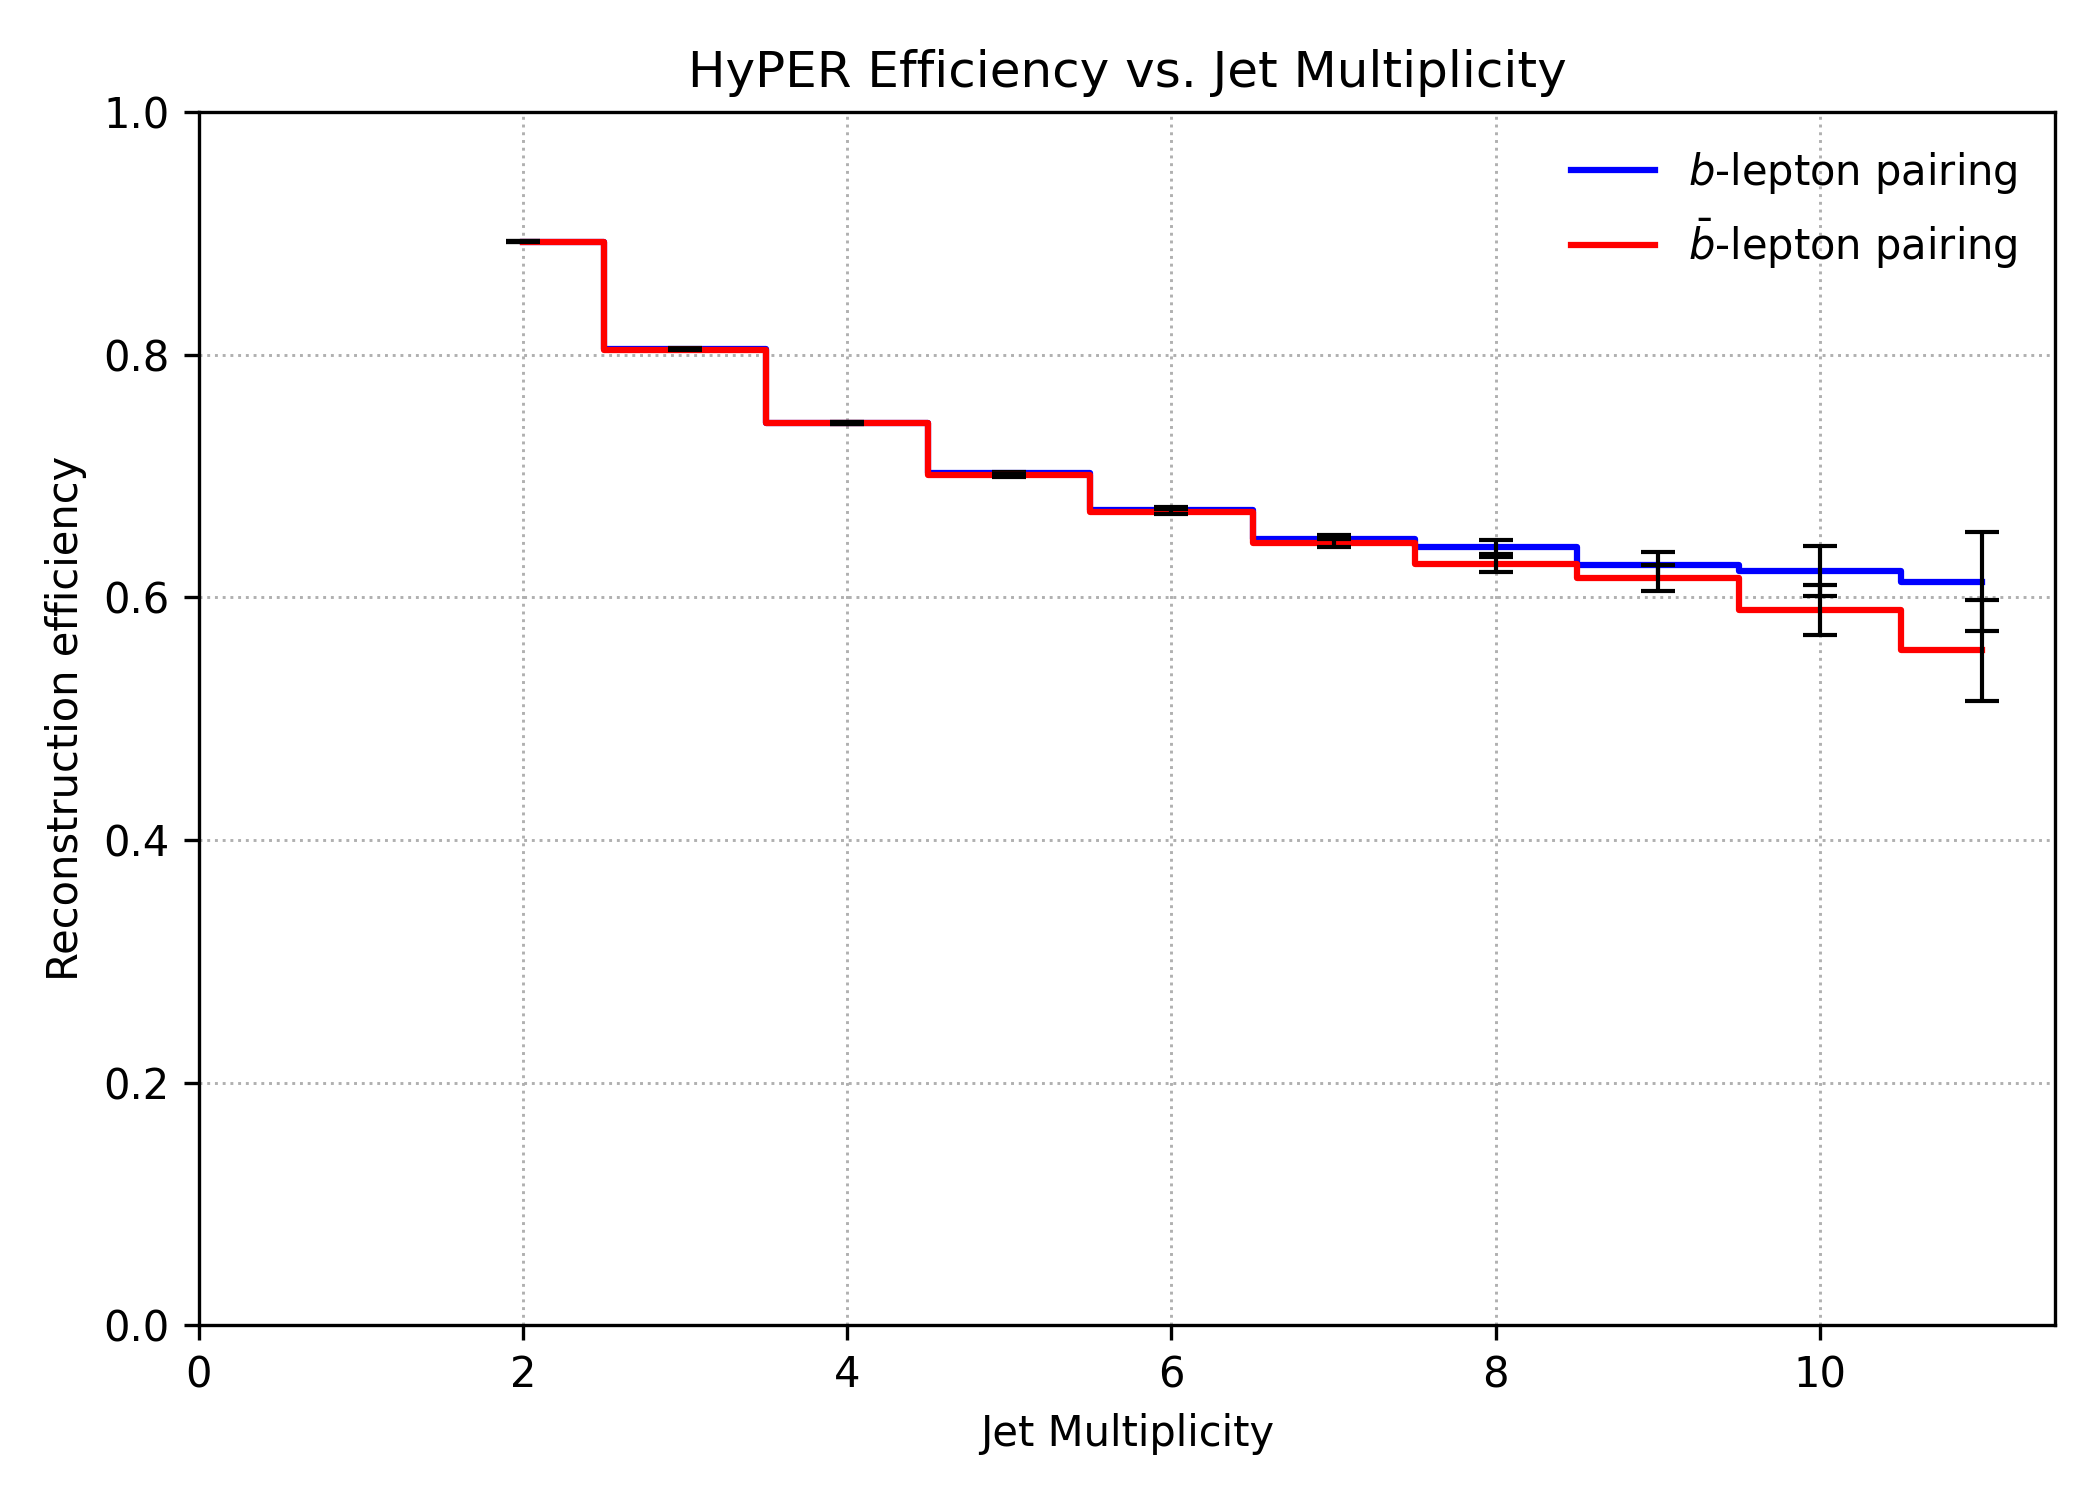
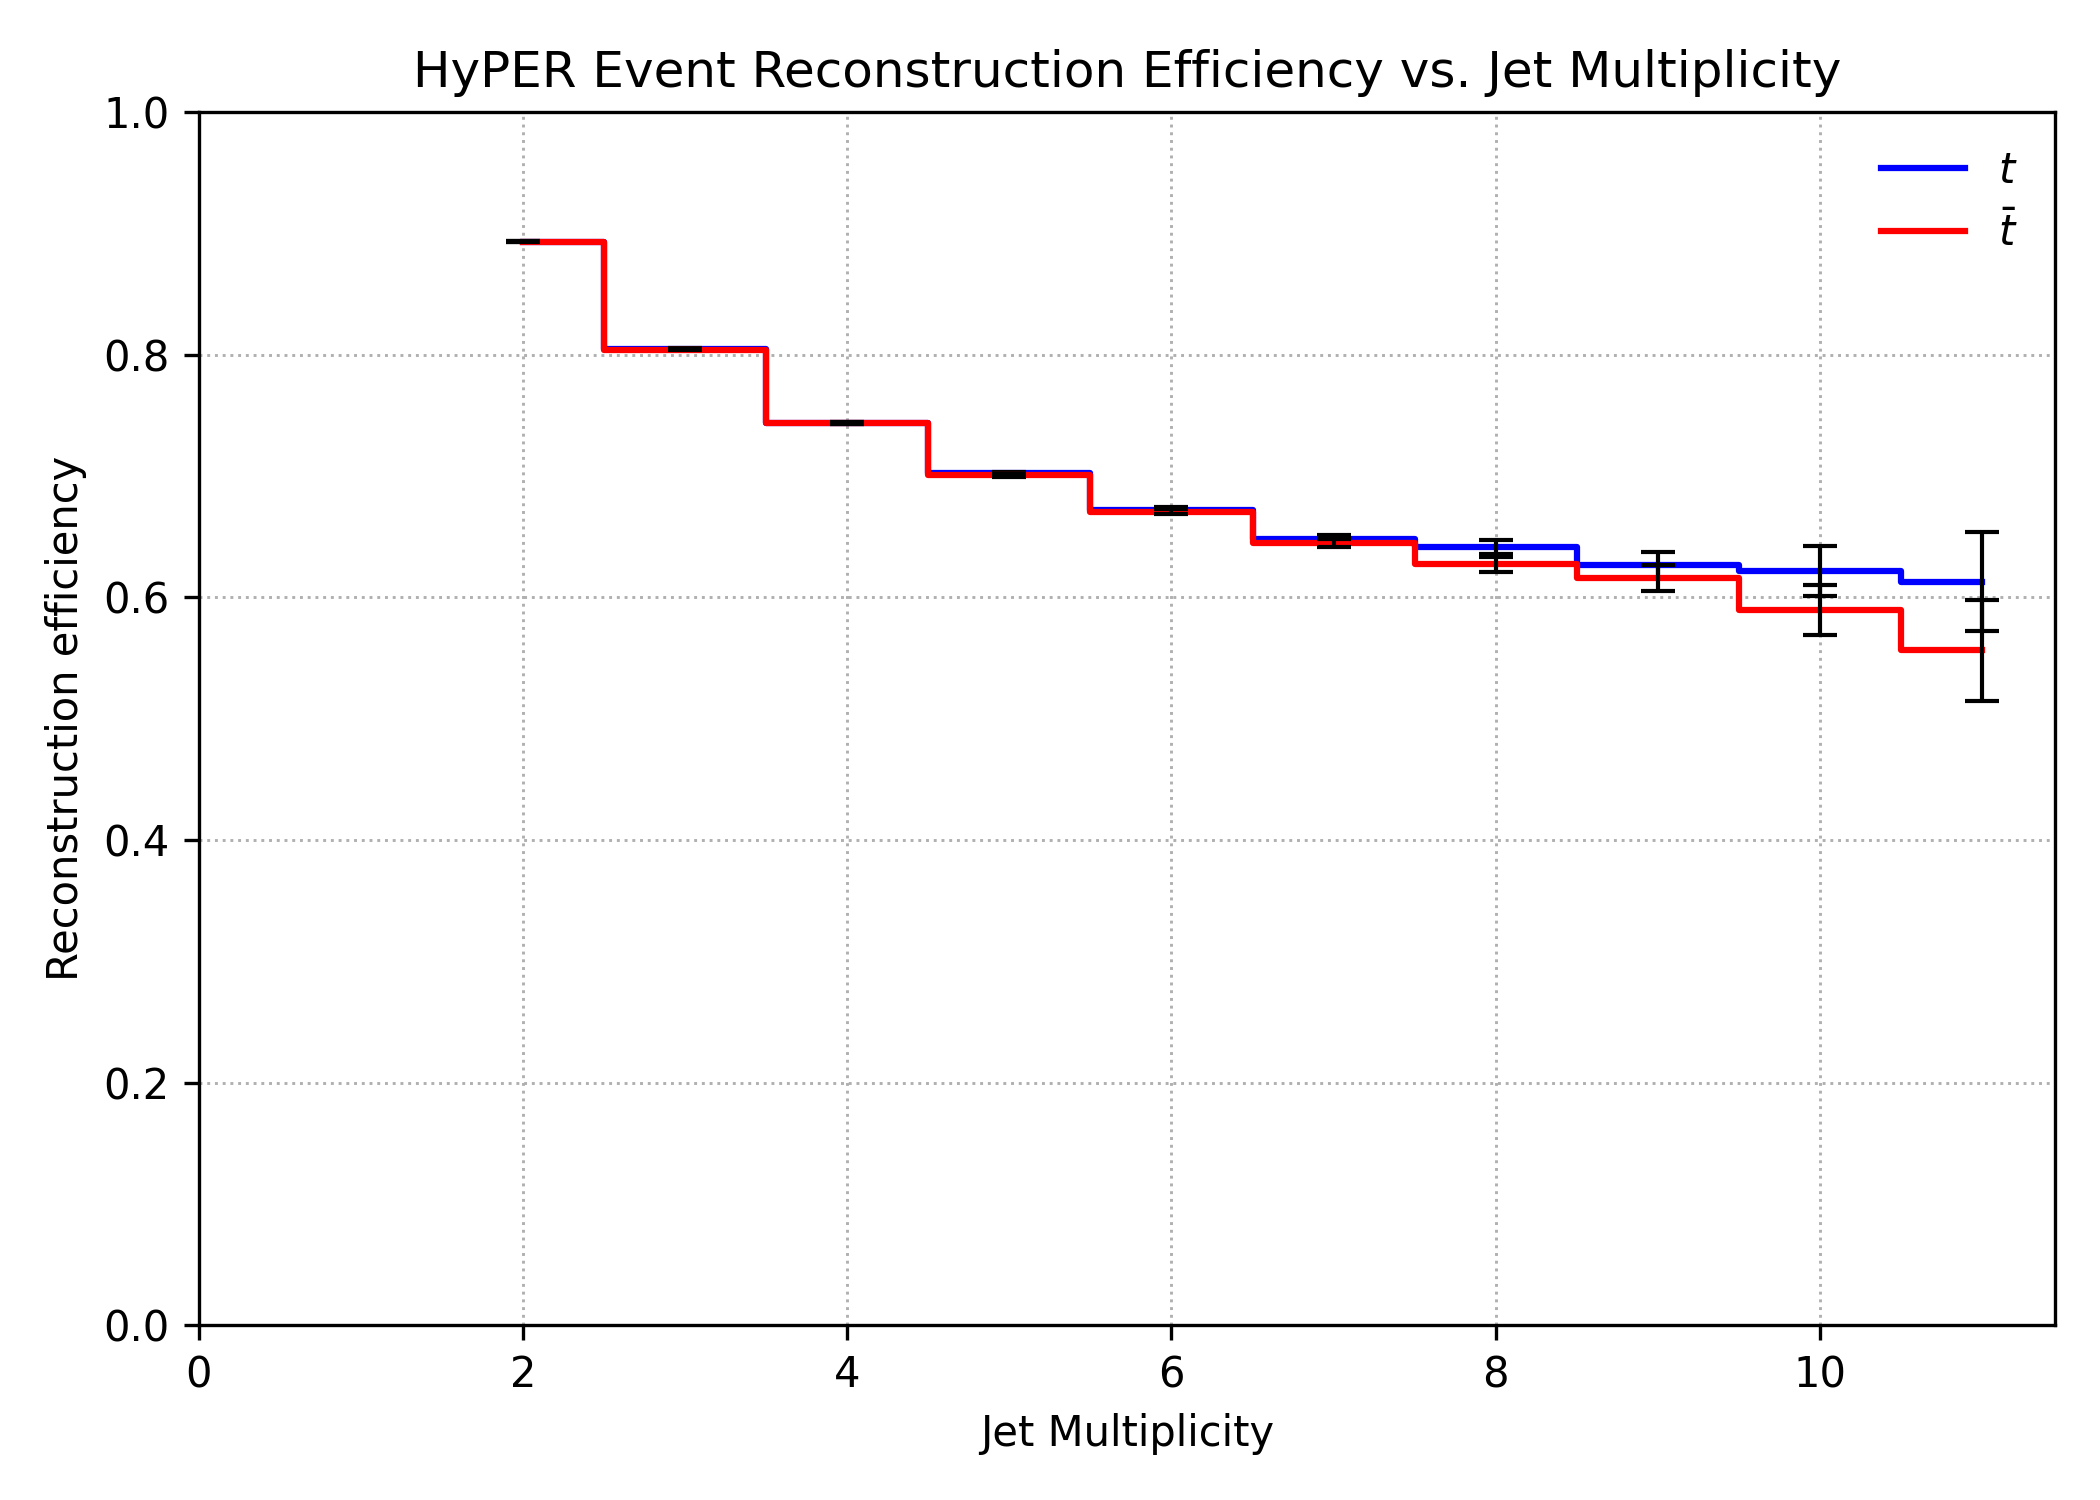
2.2.8 - Corrected MISMS Function & Reconstruction Efficiency Graphs

diff --git a/read_n_plot.py b/read_n_plot.py
@@ -27,11 +27,11 @@ def read_efficiency_block(filename, header):
 
 
 nj_lpb, eff_lpb, err_lpb = read_efficiency_block(
-    "efficiency_v_jets.py", "lpb"
+    "efficiency_v_jets2.py", "lpb"
 )
 
 nj_lmbb, eff_lmbb, err_lmbb = read_efficiency_block(
-    "efficiency_v_jets.py", "lmbb"
+    "efficiency_v_jets2.py", "lmbb"
 )
 
 plt.figure(figsize=(7,5))
@@ -44,7 +44,7 @@ plt.step(
     where="mid",
     color="blue",
     linewidth=1.5,
-    label=r"$b$-lepton pairing"
+    label=r"$t$"
 )
 
 plt.errorbar(
@@ -64,7 +64,7 @@ plt.step(
     where="mid",
     color="red",
     linewidth=1.5,
-    label=r"$\bar{b}$-lepton pairing"
+    label=r"$\bar{t}$"
 )
 
 plt.errorbar(
@@ -78,7 +78,7 @@ plt.errorbar(
 
 plt.xlabel("Jet Multiplicity")
 plt.ylabel("Reconstruction efficiency")
-plt.title(r"$\chi^2$ Efficiency vs. Jet Multiplicity")
+plt.title(r"MISMS Event Reconstruction Efficiency vs. Jet Multiplicity")
 
 plt.grid(True, which="both", linestyle=":", linewidth=0.7)
 plt.legend(frameon=False)

diff --git a/efficiency_v_jets2.py b/efficiency_v_jets2.py
@@ -1,23 +1,23 @@
 # Number of Jets, Reconstruction efficiency, Error - lpb - MISMS
-2, 0.8241, 0.0017
-3, 0.5370, 0.0013
-4, 0.4062, 0.0014
-5, 0.3285, 0.0019
-6, 0.2835, 0.0029
+2, 0.8367, 0.0017
+3, 0.5430, 0.0013
+4, 0.4088, 0.0015
+5, 0.3302, 0.0019
+6, 0.2845, 0.0029
 7, 0.2528, 0.0046
-8, 0.2257, 0.0078
-9, 0.2094, 0.0136
-10, 0.2292, 0.0275
-11, 0.1452, 0.0423
+8, 0.2278, 0.0078
+9, 0.2133, 0.0137
+10, 0.2282, 0.0274
+11, 0.1544, 0.0436
 
 # Number of Jets, Reconstruction efficiency, Error - lmbb
-2, 0.8241, 0.0017
-3, 0.5364, 0.0013
-4, 0.4054, 0.0014
-5, 0.3257, 0.0019
-6, 0.2805, 0.0028
-7, 0.2504, 0.0046
-8, 0.2203, 0.0077
-9, 0.2019, 0.0135
-10, 0.1850, 0.0243
-11, 0.2045, 0.0536
+2, 0.8367, 0.0017
+3, 0.5422, 0.0013
+4, 0.4082, 0.0015
+5, 0.3272, 0.0019
+6, 0.2812, 0.0029
+7, 0.2517, 0.0046
+8, 0.2206, 0.0077
+9, 0.2019, 0.0136
+10, 0.1881, 0.0246
+11, 0.2265, 0.0568

diff --git a/FastFramesCustomClassTemplate/Root/Variables.cc b/FastFramesCustomClassTemplate/Root/Variables.cc
@@ -1312,13 +1312,13 @@ RVec<int> misms_pairing_min_mlb2_by_charge(
 
       // Assignment A: l+ → i, l− → j
       float sumA =
-        (*lplus  + jets[i]).M2() +
-        (*lminus + jets[j]).M2();
+      std::pow((*lplus  + jets[i]).M2(), 2) +
+      std::pow((*lminus + jets[j]).M2(), 2);
 
       // Assignment B: l+ → j, l− → i
       float sumB =
-        (*lplus  + jets[j]).M2() +
-        (*lminus + jets[i]).M2();
+        std::pow((*lplus  + jets[j]).M2(), 2) +
+        std::pow((*lminus + jets[i]).M2(), 2);
 
       if (sumA < min_sum){
         min_sum = sumA;

diff --git a/efficiency_v_bbjets.py b/efficiency_v_bbjets.py
@@ -11,16 +11,16 @@
 11, 0.2854, 0.0649
 
 # Number of Jets, Reconstruction efficiency, Error - lmbb - MISMS
-2, 0.8241, 0.0017
-3, 0.5364, 0.0013
-4, 0.4054, 0.0014
-5, 0.3257, 0.0019
-6, 0.2805, 0.0028
-7, 0.2504, 0.0046
-8, 0.2203, 0.0077
-9, 0.2019, 0.0135
-10, 0.1850, 0.0243
-11, 0.2045, 0.0536
+2, 0.8367, 0.0017
+3, 0.5422, 0.0013
+4, 0.4082, 0.0015
+5, 0.3272, 0.0019
+6, 0.2812, 0.0029
+7, 0.2517, 0.0046
+8, 0.2206, 0.0077
+9, 0.2019, 0.0136
+10, 0.1881, 0.0246
+11, 0.2265, 0.0568
 
 # Number of Jets, Reconstruction efficiency, Error - lmbb - HyPER
 2, 0.8929, 0.0004

diff --git a/efficiency_v_bjets.py b/efficiency_v_bjets.py
@@ -11,16 +11,16 @@
 11, 0.2323, 0.0575
 
 # Number of Jets, Reconstruction efficiency, Error - lpb - MISMS
-2, 0.8241, 0.0017
-3, 0.5370, 0.0013
-4, 0.4062, 0.0014
-5, 0.3285, 0.0019
-6, 0.2835, 0.0029
+2, 0.8367, 0.0017
+3, 0.5430, 0.0013
+4, 0.4088, 0.0015
+5, 0.3302, 0.0019
+6, 0.2845, 0.0029
 7, 0.2528, 0.0046
-8, 0.2257, 0.0078
-9, 0.2094, 0.0136
-10, 0.2292, 0.0275
-11, 0.1452, 0.0423
+8, 0.2278, 0.0078
+9, 0.2133, 0.0137
+10, 0.2282, 0.0274
+11, 0.1544, 0.0436
 
 # Number of Jets, Reconstruction efficiency, Error - lpb - HyPER
 2, 0.8929, 0.0004

diff --git a/read_n_plot2.py b/read_n_plot2.py
@@ -56,7 +56,7 @@ plt.bar(x + bar_width, eff_hyper, width=bar_width, yerr=err_hyper, capsize=4,
 plt.xticks(x, nj_chi2.astype(int))  # Jet multiplicity as ticks
 plt.xlabel("Jet Multiplicity")
 plt.ylabel("Reconstruction Efficiency")
-plt.title(r"[$\bar{b}$-Pairing] Event Reconstruction Efficiency: Technique Comparison")
+plt.title(r"[$\bar{t}$] Event Reconstruction Efficiency: Technique Comparison")
 plt.ylim(0,1)
 plt.grid(True, which="both", linestyle=":", linewidth=0.7)
 plt.legend(frameon=False)
